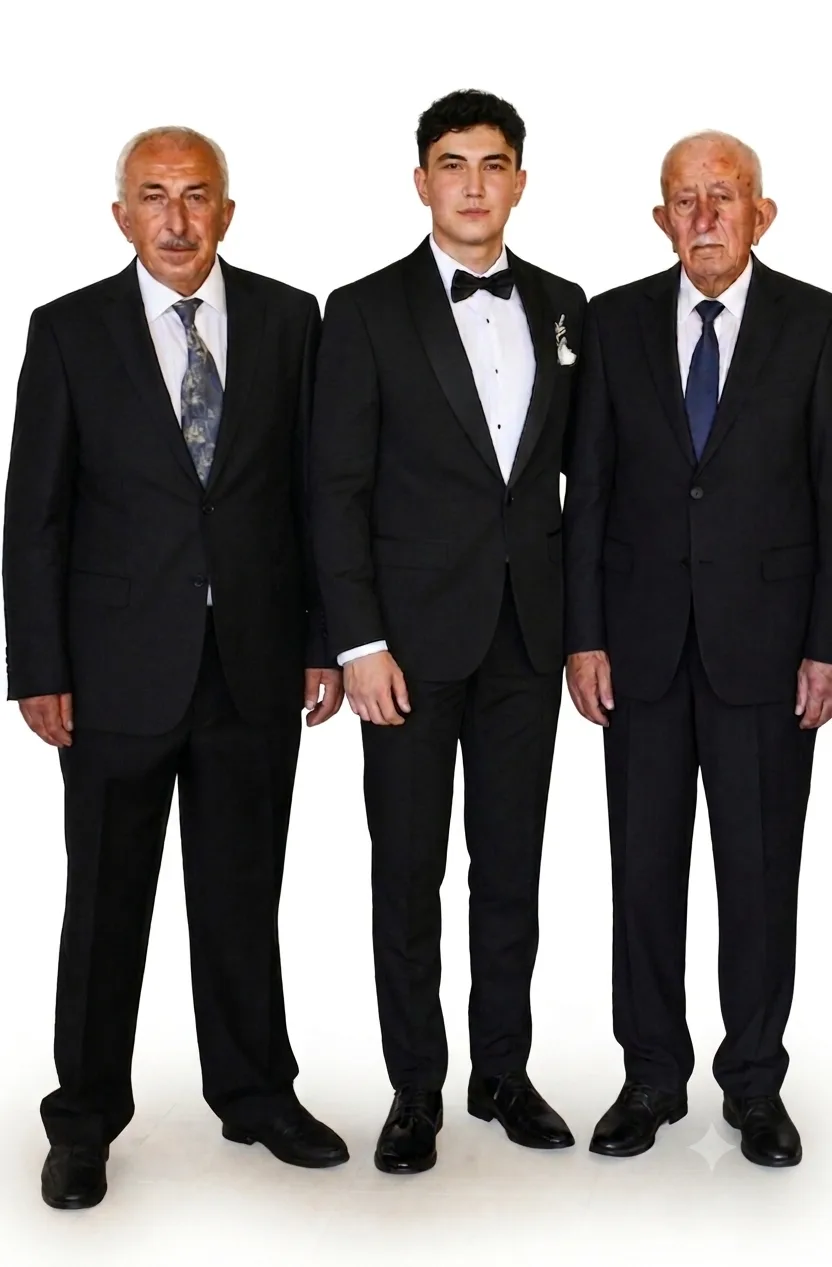
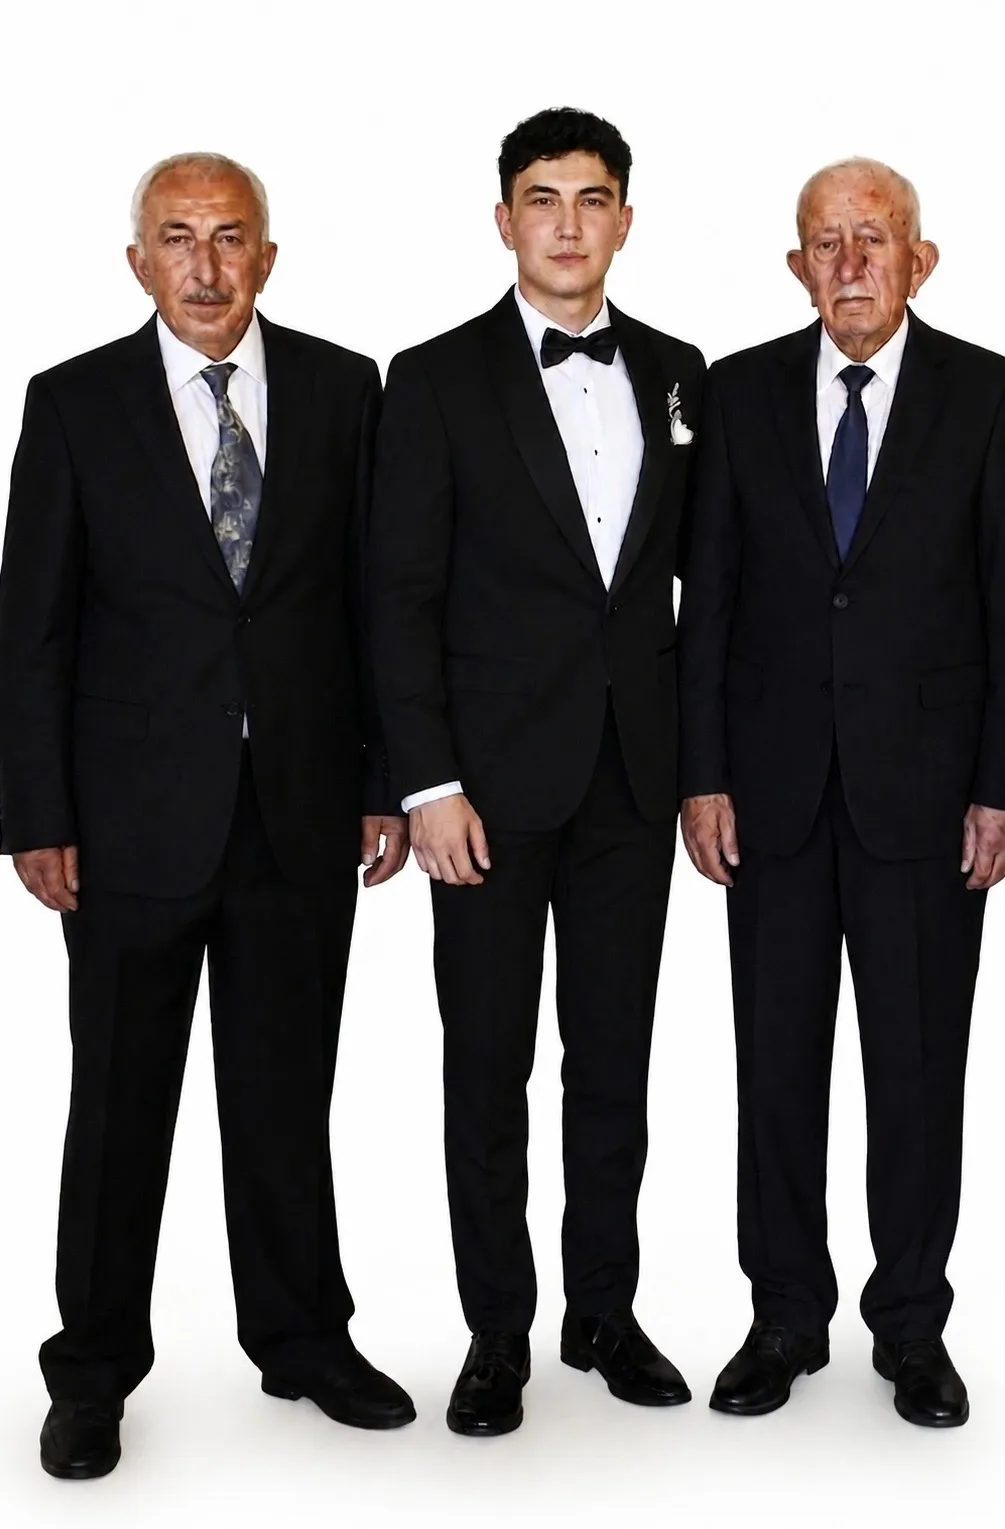
Serif başlık fontu tüm sayfalara yayıldı, hikaye bloklarının sırası ve fotoğraf güncellendi
Playfair Display artık Ana Sayfa, Ürünler, Ürün detay, Teklif ve
İletişim sayfalarındaki H1/H2 başlıklarında da kullanılıyor (tutarlı
tipografi). Ayrıca sekme başlığı tekrarı hatası (Ürünler, Ürün detay,
İletişim) düzeltildi, Hakkımızda'daki hikaye bloklarının sağ/sol
sırası değiştirildi ve hero fotoğrafı güncellendi.

diff --git a/src/app/page.tsx b/src/app/page.tsx
@@ -106,7 +106,7 @@ export default function Home() {
             <div className="absolute inset-x-0 bottom-0 h-10 bg-gradient-to-t from-white to-transparent" />
           </div>
           <div className="px-5 pb-8 pt-4 text-center anim-slide-left">
-            <h1 className="text-3xl font-black uppercase text-gray-900 mb-2" style={{ lineHeight: "1.15" }}>
+            <h1 className="font-serif text-3xl font-black uppercase text-gray-900 mb-2" style={{ lineHeight: "1.15" }}>
               Pekmezoğlu<br />Çiftçilerine Özel Teklifler
             </h1>
             <p className="text-gray-500 text-xs mb-4 leading-relaxed">
@@ -139,7 +139,7 @@ export default function Home() {
         </div>
         <div className="hidden lg:flex relative z-20 w-full max-w-7xl mx-auto px-2 lg:px-4">
           <div className="w-1/2 py-20 anim-slide-left">
-            <h1 className="text-4xl sm:text-5xl lg:text-6xl font-black uppercase mb-4 text-gray-900" style={{ lineHeight: "1.15" }}>
+            <h1 className="font-serif text-4xl sm:text-5xl lg:text-6xl font-black uppercase mb-4 text-gray-900" style={{ lineHeight: "1.15" }}>
               Pekmezoğlu<br />
               Çiftçilerine<br />
               Özel<br />
@@ -169,7 +169,7 @@ export default function Home() {
         <div className="max-w-7xl mx-auto px-4 sm:px-6 lg:px-8">
           <FadeIn direction="up">
             <div className="text-center mb-14">
-              <h2 className="text-3xl md:text-4xl font-bold text-gray-900 mb-4">Neden Bizi Seçmelisiniz?</h2>
+              <h2 className="font-serif text-3xl md:text-4xl font-bold text-gray-900 mb-4">Neden Bizi Seçmelisiniz?</h2>
               <p className="text-gray-500 max-w-xl mx-auto">
                 Yılların deneyimi ve müşteri memnuniyeti odaklı hizmet anlayışımızla fark yaratıyoruz.
               </p>
@@ -195,7 +195,7 @@ export default function Home() {
           <FadeIn direction="up">
           <div className="flex items-end justify-between mb-12">
             <div>
-              <h2 className="text-3xl md:text-4xl font-bold text-gray-900 mb-2">Öne Çıkan Traktörler</h2>
+              <h2 className="font-serif text-3xl md:text-4xl font-bold text-gray-900 mb-2">Öne Çıkan Traktörler</h2>
               <p className="text-gray-500">En çok tercih edilen modellerimizden bir seçki</p>
             </div>
             <Link
@@ -265,7 +265,7 @@ export default function Home() {
       <section className="bg-gray-900 py-20">
         <FadeIn direction="zoom">
           <div className="max-w-3xl mx-auto px-4 text-center">
-            <h2 className="text-3xl md:text-4xl font-bold mb-4 text-white">Doğru Traktörü Seçmekte Kararsız mısınız?</h2>
+            <h2 className="font-serif text-3xl md:text-4xl font-bold mb-4 text-white">Doğru Traktörü Seçmekte Kararsız mısınız?</h2>
             <p className="text-gray-400 mb-8 text-lg">
               Uzman ekibimiz ihtiyacınıza en uygun modeli belirlemenize ücretsiz yardımcı olur.
             </p>

diff --git a/src/app/hakkimizda/page.tsx b/src/app/hakkimizda/page.tsx
@@ -111,8 +111,8 @@ export default function Hakkimizda() {
                   <Image
                     src="/hakkimizda/yonetim.webp"
                     alt="Pekmezoğlu Motorlu Araçlar kurucu ortakları ve yönetim kadrosu"
-                    width={832}
-                    height={1267}
+                    width={1005}
+                    height={1529}
                     className="w-full h-auto"
                     priority
                   />
@@ -127,7 +127,7 @@ export default function Hakkimizda() {
       <section className="bg-white">
         <div className="max-w-6xl mx-auto px-4 sm:px-6 lg:px-8 divide-y divide-gray-100">
           {hikaye.map((blok, i) => {
-            const gorselSolda = i % 2 === 1;
+            const gorselSolda = i % 2 === 0;
             return (
               <div key={blok.baslik} className="py-16 md:py-24">
                 <div
@@ -166,7 +166,7 @@ export default function Hakkimizda() {
       <section className="py-20 bg-gray-50">
         <div className="max-w-7xl mx-auto px-4 sm:px-6 lg:px-8">
           <FadeIn direction="up">
-            <h2 className="text-3xl font-bold text-gray-900 text-center mb-12">Değerlerimiz</h2>
+            <h2 className="font-serif text-3xl font-bold text-gray-900 text-center mb-12">Değerlerimiz</h2>
           </FadeIn>
           <div className="grid grid-cols-1 sm:grid-cols-2 lg:grid-cols-4 gap-8">
             {degerler.map((d, i) => (
@@ -186,7 +186,7 @@ export default function Hakkimizda() {
       <section className="py-20 bg-white">
         <div className="max-w-7xl mx-auto px-4 sm:px-6 lg:px-8">
           <FadeIn direction="up">
-            <h2 className="text-3xl font-bold text-gray-900 text-center mb-12">Hizmetlerimiz</h2>
+            <h2 className="font-serif text-3xl font-bold text-gray-900 text-center mb-12">Hizmetlerimiz</h2>
           </FadeIn>
           <div className="grid grid-cols-1 sm:grid-cols-2 lg:grid-cols-3 gap-6">
             {hizmetler.map((h, i) => (

diff --git a/src/app/iletisim/page.tsx b/src/app/iletisim/page.tsx
@@ -3,7 +3,7 @@ import Link from "next/link";
 import FadeIn from "@/components/FadeIn";
 
 export const metadata: Metadata = {
-  title: "İletişim — Pekmezoğlu Motorlu Araçlar",
+  title: "İletişim",
   description: "Eskişehir Odunpazarı'nda traktör satış ve servis. Adres, telefon ve harita bilgileri.",
 };
 
@@ -14,7 +14,7 @@ export default function Iletisim() {
         <div className="max-w-7xl mx-auto px-4 sm:px-6 lg:px-8">
           <FadeIn direction="up">
             <p className="text-red-400 text-sm font-semibold uppercase tracking-widest mb-3">Bize Ulaşın</p>
-            <h1 className="text-4xl md:text-5xl font-extrabold mb-4">İletişim</h1>
+            <h1 className="font-serif text-4xl md:text-5xl font-extrabold mb-4">İletişim</h1>
             <p className="text-gray-400 text-lg max-w-xl">
               Eskişehir Odunpazarı&apos;nda hizmetinizdeyiz. Arayın, yazın veya ziyaret edin.
             </p>
@@ -29,7 +29,7 @@ export default function Iletisim() {
             {/* Bilgiler */}
             <FadeIn direction="left">
               <div>
-                <h2 className="text-2xl font-bold text-gray-900 mb-8">Bilgilerimiz</h2>
+                <h2 className="font-serif text-2xl font-bold text-gray-900 mb-8">Bilgilerimiz</h2>
                 <div className="space-y-6">
 
                   <div className="flex gap-4">
@@ -120,7 +120,7 @@ export default function Iletisim() {
             {/* Harita */}
             <FadeIn direction="right">
               <div>
-                <h2 className="text-2xl font-bold text-gray-900 mb-8">Konum</h2>
+                <h2 className="font-serif text-2xl font-bold text-gray-900 mb-8">Konum</h2>
                 <div className="rounded-2xl overflow-hidden shadow-sm border border-gray-200 h-96">
                   <iframe
                     src="https://maps.google.com/maps?q=39.7394427,30.614442&z=16&output=embed"

diff --git a/src/app/urunler/[id]/page.tsx b/src/app/urunler/[id]/page.tsx
@@ -16,7 +16,7 @@ export async function generateMetadata({ params }: Props): Promise<Metadata> {
   const urun = urunler.find((u) => u.id === Number(id));
   if (!urun) return {};
   return {
-    title: `${urun.marka} ${urun.model} — Pekmezoğlu Motorlu Araçlar`,
+    title: `${urun.marka} ${urun.model}`,
     description: `${urun.modelYili} model ${urun.marka} ${urun.model} — ${urun.guc}, ${urun.durum}`,
   };
 }
@@ -110,7 +110,7 @@ export default async function UrunDetay({ params }: Props) {
               </span>
             )}
           </div>
-          <h1 className="text-lg font-extrabold text-gray-900 leading-snug uppercase">
+          <h1 className="font-serif text-lg font-extrabold text-gray-900 leading-snug uppercase">
             {urun.marka} {urun.model}
           </h1>
           <div className="flex items-center gap-1.5 mt-2 text-sm text-gray-500">
@@ -213,7 +213,7 @@ export default async function UrunDetay({ params }: Props) {
         </div>
 
         <div className="max-w-7xl mx-auto px-4 sm:px-6 lg:px-8 py-5">
-          <h1 className="text-2xl font-bold text-gray-900 mb-4 uppercase">
+          <h1 className="font-serif text-2xl font-bold text-gray-900 mb-4 uppercase">
             {urun.marka} {urun.model}
           </h1>
 

diff --git a/src/app/teklif/page.tsx b/src/app/teklif/page.tsx
@@ -84,7 +84,7 @@ export default function Teklif() {
       <section className="bg-gray-900 text-white py-16">
         <div className="max-w-7xl mx-auto px-4 sm:px-6 lg:px-8">
           <p className="text-red-400 text-sm font-semibold uppercase tracking-widest mb-3">Hızlı Değerlendirme</p>
-          <h1 className="text-4xl md:text-5xl font-extrabold mb-4">Fiyat Teklifi Al</h1>
+          <h1 className="font-serif text-4xl md:text-5xl font-extrabold mb-4">Fiyat Teklifi Al</h1>
           <p className="text-gray-400 text-lg max-w-xl">
             Traktörünüzün bilgilerini ve fotoğraflarını gönderin, en kısa sürede sizi arayalım.
           </p>
@@ -112,7 +112,7 @@ export default function Teklif() {
               </div>
             ) : (
               <>
-                <h2 className="text-2xl font-bold text-gray-900 mb-6">Traktör Bilgileri</h2>
+                <h2 className="font-serif text-2xl font-bold text-gray-900 mb-6">Traktör Bilgileri</h2>
                 <form onSubmit={handleSubmit} className="space-y-5">
 
                   {/* Honeypot: botlar bu alanı doldurur, insanlar görmez */}

diff --git a/src/app/urunler/page.tsx b/src/app/urunler/page.tsx
@@ -2,7 +2,7 @@ import type { Metadata } from "next";
 import UrunlerClient from "@/components/UrunlerClient";
 
 export const metadata: Metadata = {
-  title: "Ürünlerimiz — Pekmezoğlu Motorlu Araçlar",
+  title: "Ürünlerimiz",
   description: "Sıfır ve 2. el traktör satışı. Tüm marka ve modeller — Eskişehir.",
 };
 
@@ -13,7 +13,7 @@ export default function Urunler() {
       <section className="bg-gray-900 text-white py-16">
         <div className="max-w-7xl mx-auto px-4 sm:px-6 lg:px-8">
           <p className="text-red-400 text-sm font-semibold uppercase tracking-widest mb-3">Katalog</p>
-          <h1 className="text-4xl md:text-5xl font-extrabold mb-4">Traktör Ürünlerimiz</h1>
+          <h1 className="font-serif text-4xl md:text-5xl font-extrabold mb-4">Traktör Ürünlerimiz</h1>
           <p className="text-gray-400 text-lg max-w-xl">
             Sıfır traktör satışı ve tüm markalarda 2. el alım & satım.
           </p>
